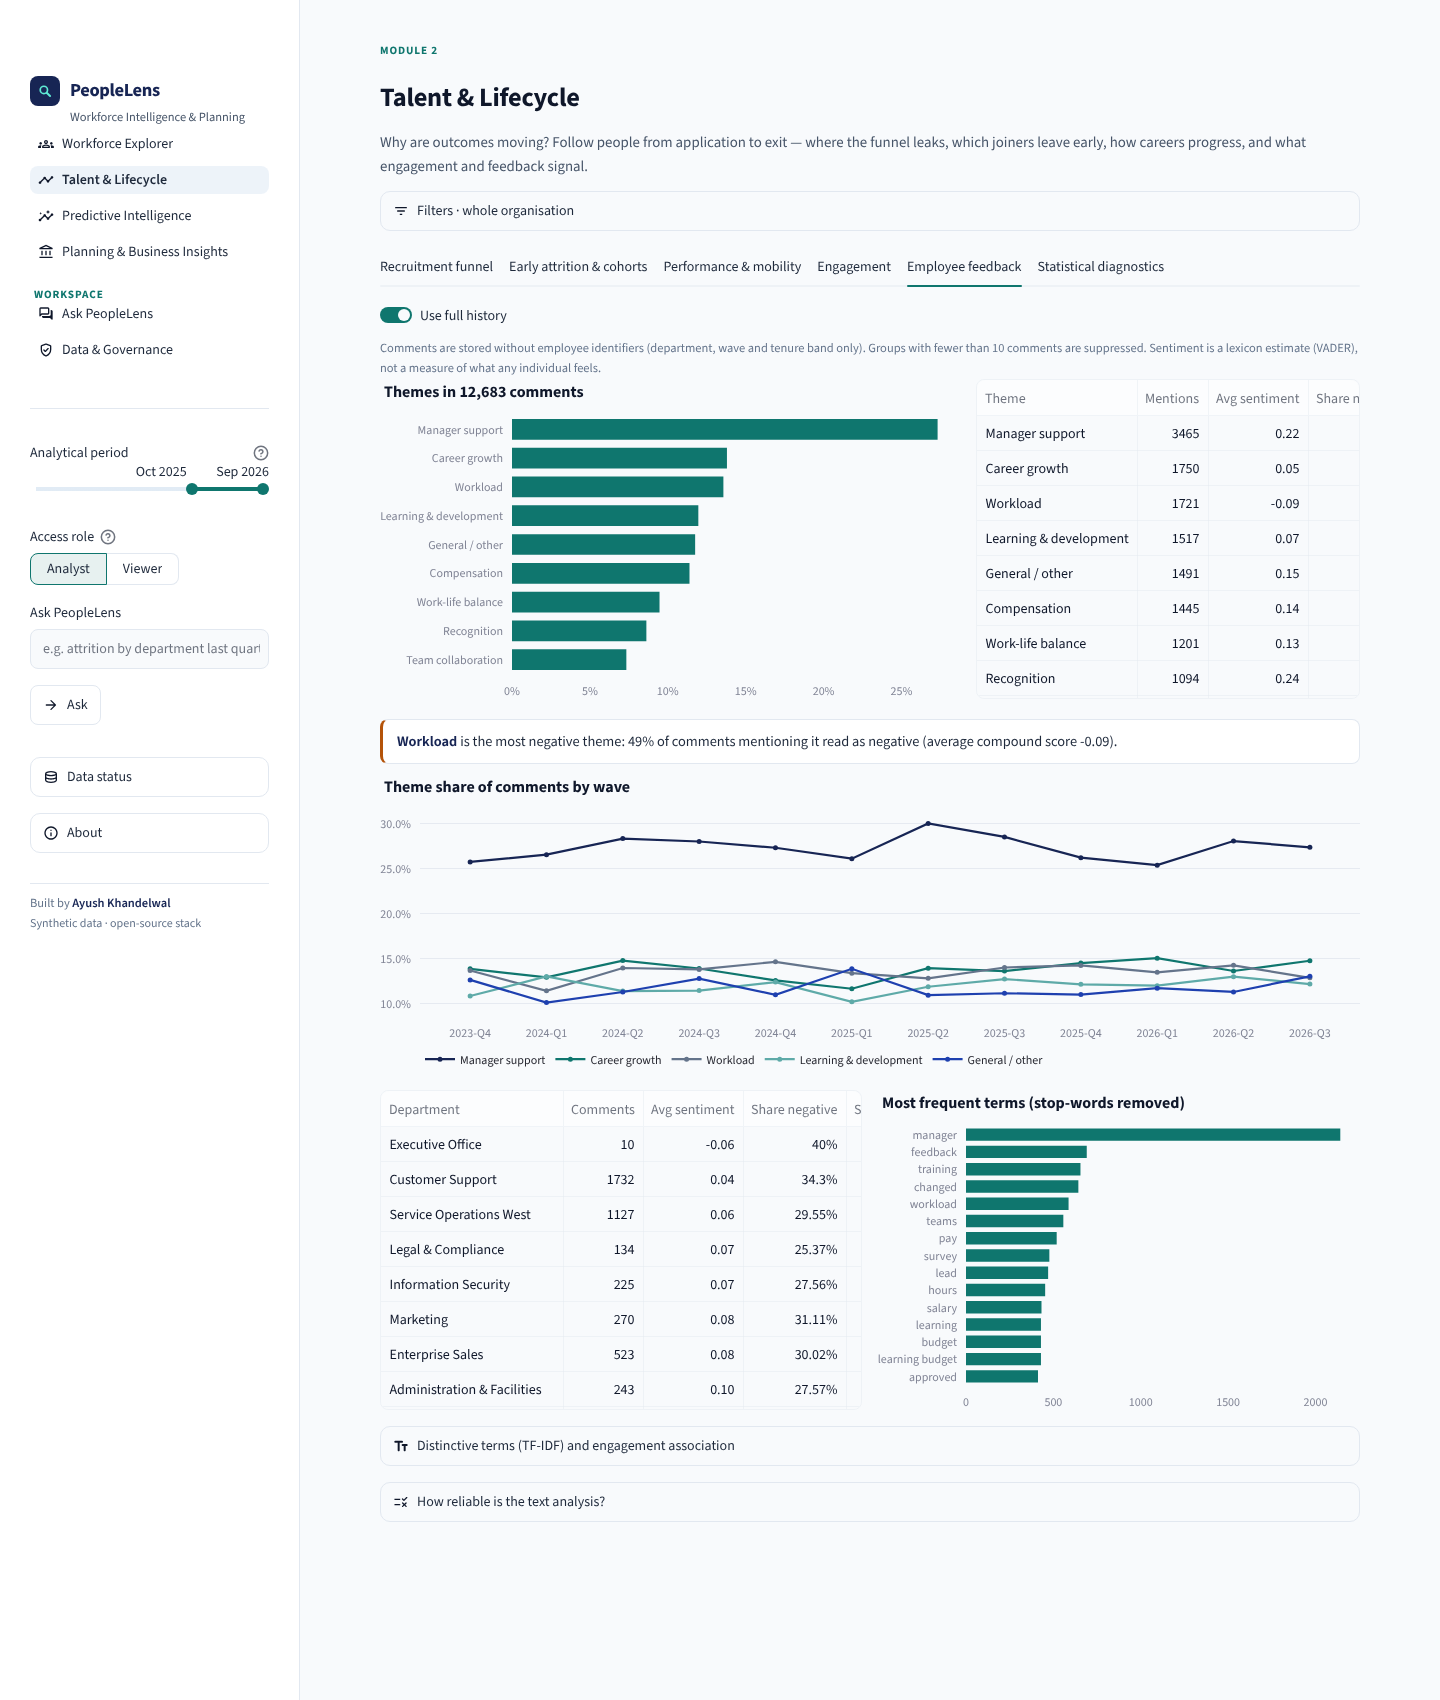
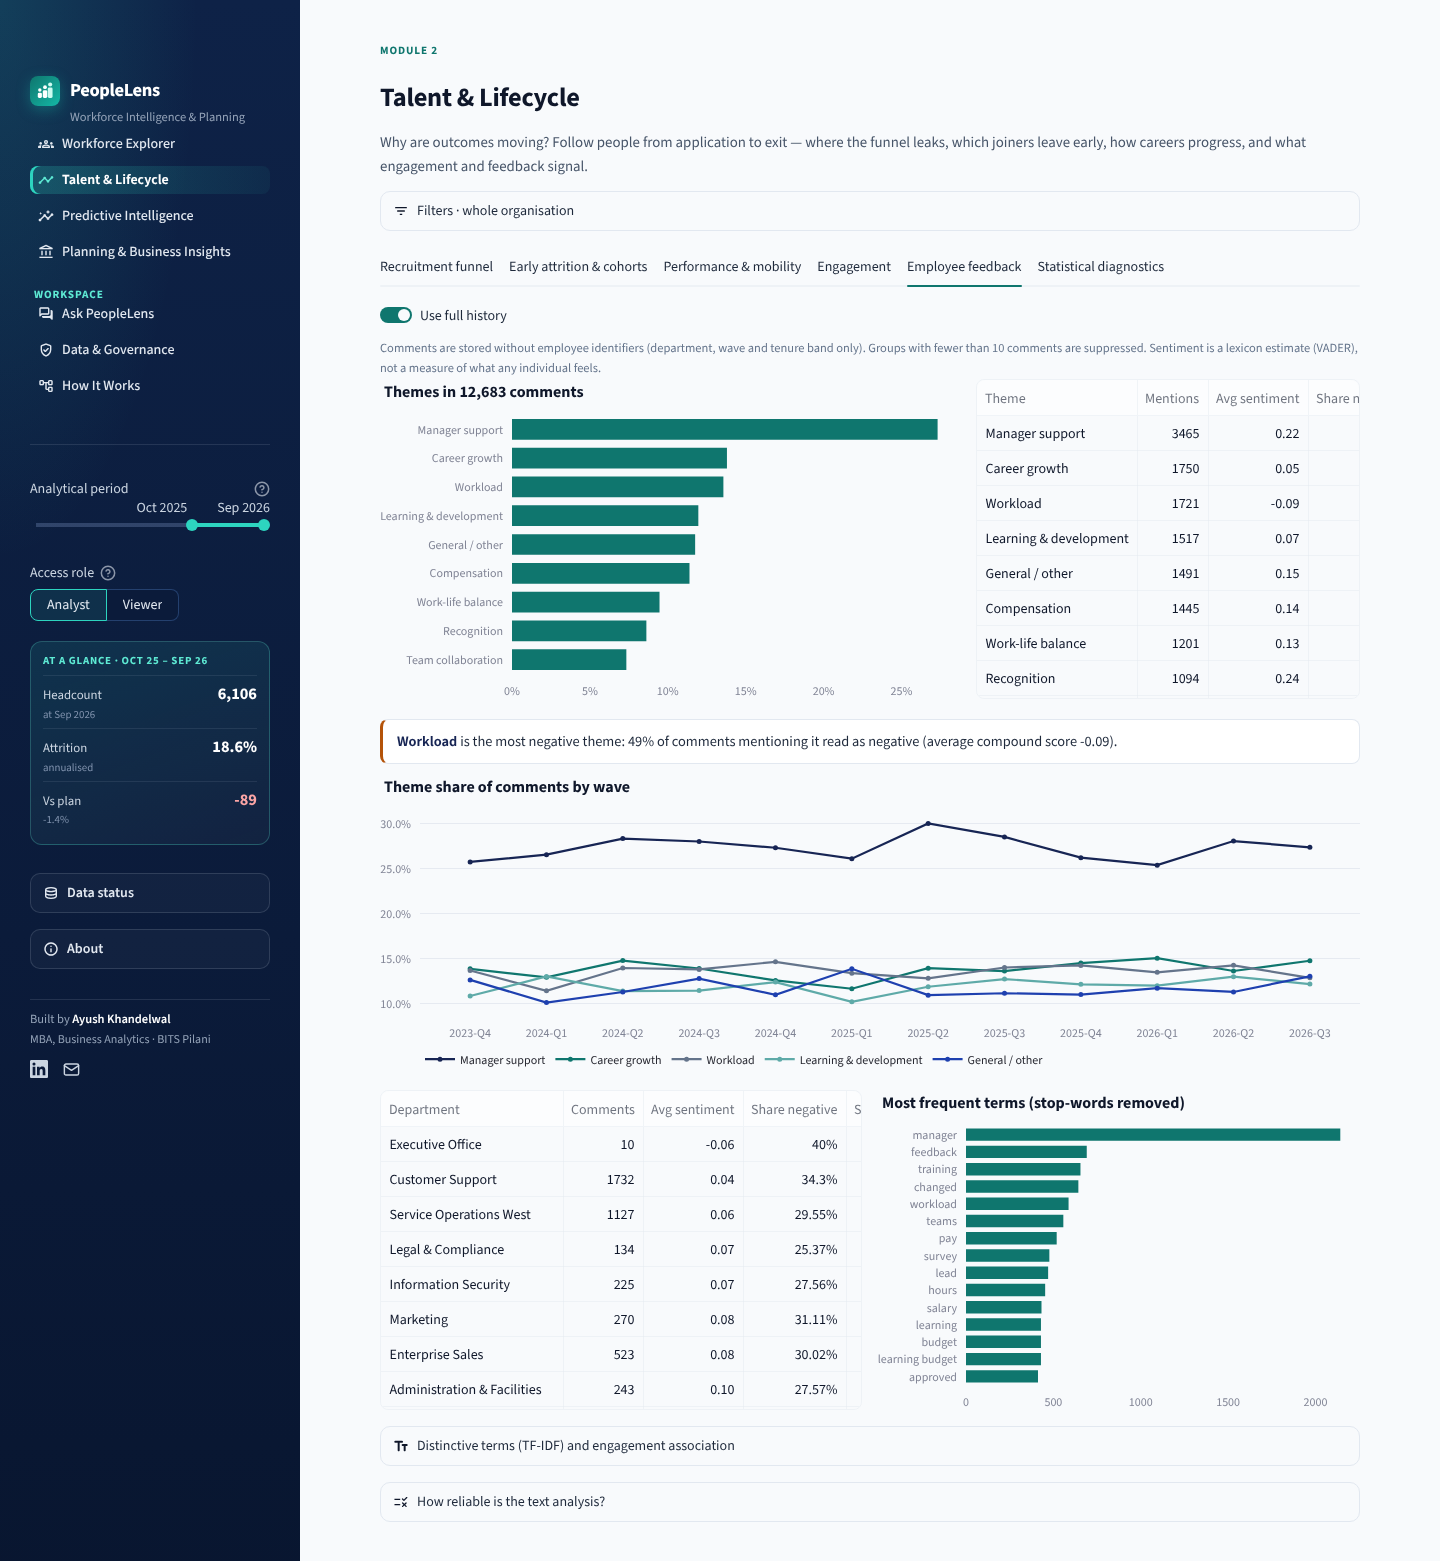
Refresh screenshots for the new design; link the live app
- All 19 screenshots retaken (dark sidebar, new logo, explanation panels),
  trimmed to content; new screenshot of the attrition driver simulator.
- README and deployment guide link the hosted app,
  "PeopleLens — Workforce Intelligence".

Claude-Session: https://claude.ai/code/session_01DebubvQUT6cvN3VLTnwaVQ

diff --git a/README.md b/README.md
@@ -4,6 +4,10 @@
 
 **Turning Workforce Data into Better Business Decisions.**
 
+### ▶ Live app: [PeopleLens — Workforce Intelligence](https://peoplelens.streamlit.app/)
+
+Free hosting: if the app has been idle it may show a *wake up* button — click it and allow a minute or two to load.
+
 PeopleLens is an independently developed, end-to-end workforce analytics product. It simulates the people data of
 a fictional ~6,000-person organisation, engineers it into a validated relational model, and turns it into decisions:
 where the workforce is changing, why people leave, what the next six months look like, what turnover costs, and what
@@ -53,10 +57,11 @@ pulling?* PeopleLens integrates these sources into one consistent model and answ
 | ![](docs/screenshots/predictive_forecast.png) | ![](docs/screenshots/planning_recommendations.png) |
 | **Ask PeopleLens** | **Data & Governance** |
 | ![](docs/screenshots/ask_peoplelens.png) | ![](docs/screenshots/data_governance_access.png) |
-| **How It Works** | **How It Works — models** |
-| ![](docs/screenshots/how_it_works.png) | ![](docs/screenshots/how_it_works_models.png) |
+| **Attrition drivers (what-if)** | **How It Works** |
+| ![](docs/screenshots/predictive_attrition_drivers.png) | ![](docs/screenshots/how_it_works.png) |
 
-More in [`docs/screenshots`](docs/screenshots). All screenshots are of the running application on the generated data.
+More in [`docs/screenshots`](docs/screenshots). All screenshots are of the running application on the synthetic dataset; try it live at
+[peoplelens.streamlit.app](https://peoplelens.streamlit.app/).
 
 ## 4. Architecture
 
@@ -304,6 +309,9 @@ docker compose up -d db
 ```
 
 ## 15. Running the application
+
+No installation needed to try it: **[PeopleLens — Workforce Intelligence](https://peoplelens.streamlit.app/)** is hosted on
+Streamlit Community Cloud. To run it locally:
 
 ```powershell
 python scripts/run_pipeline.py          # load data/dataset + validate + train models + monthly report (~1-2 min)

diff --git a/docs/deployment.md b/docs/deployment.md
@@ -1,6 +1,8 @@
 # Deployment
 
-The local installation is the complete reference implementation. A hosted demo is optional and free.
+The local installation is the complete reference implementation. A free hosted demo runs at
+**[PeopleLens — Workforce Intelligence](https://peoplelens.streamlit.app/)** (Streamlit Community Cloud, deployed from the
+`main` branch of this repository).
 
 ## Option 1 — Streamlit Community Cloud (free)
 
